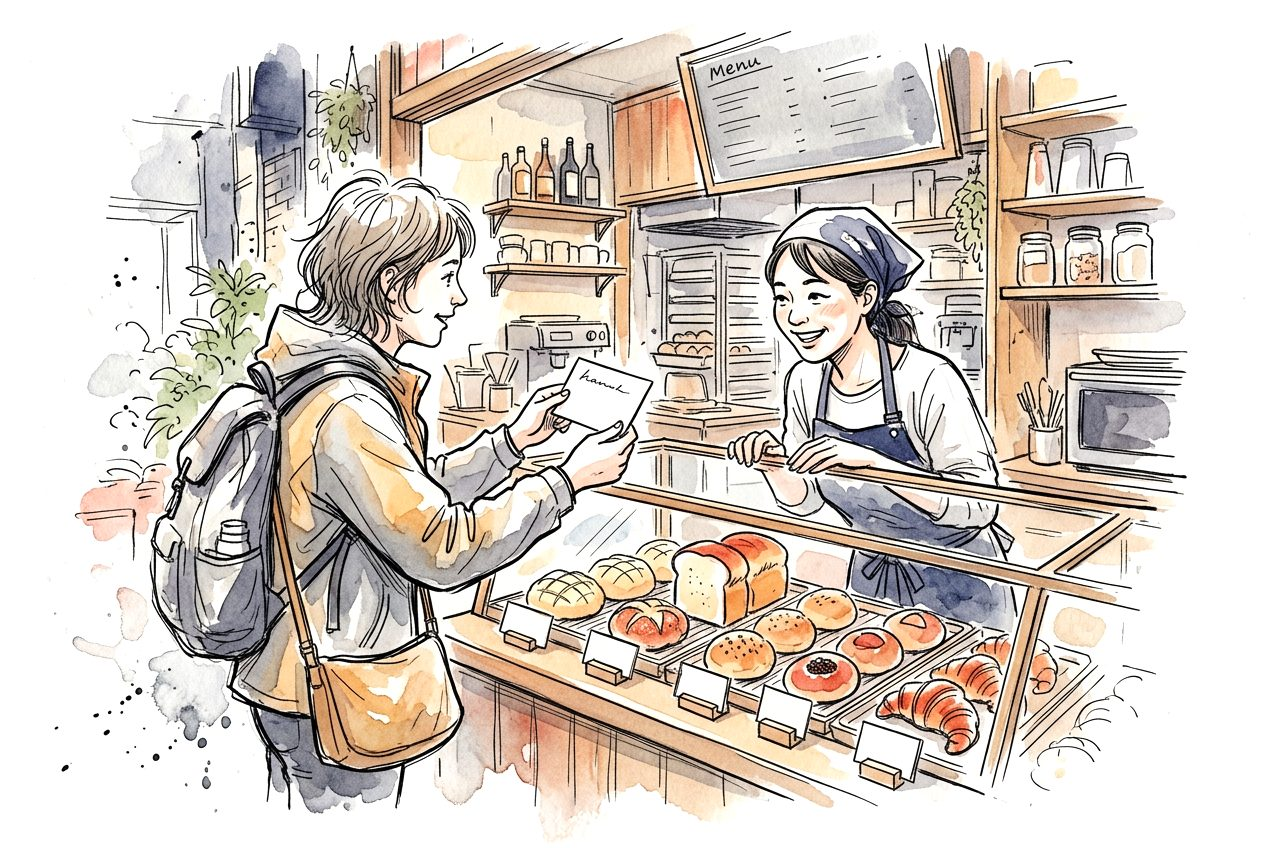
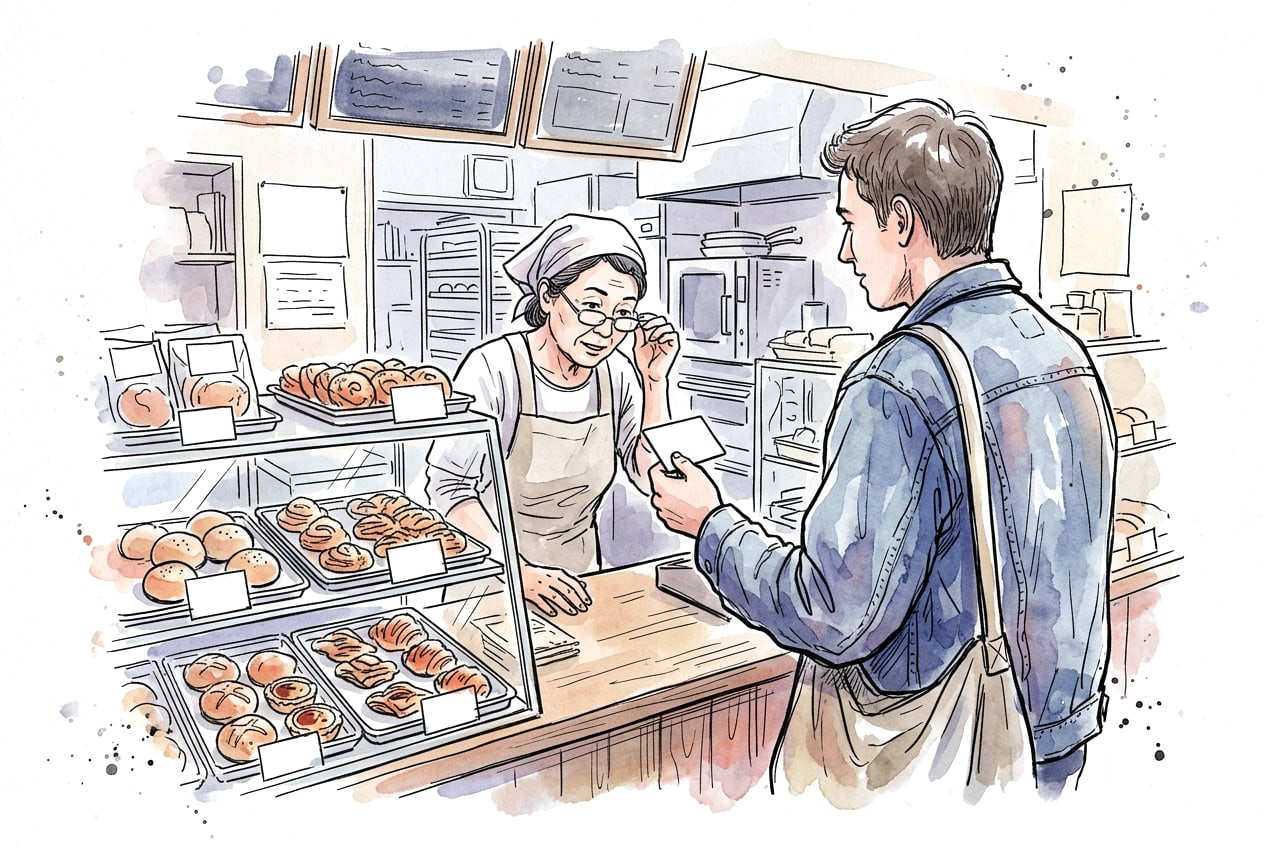
fix(illustrations): bakery and home table redrawn without lettering
bakery: the card had a Latin scribble and faced the traveller, and a board said
'Menu'. table: 'PASSPORT' lettering and a spoon in the miso soup. Alt updated.

Claude-Session: https://claude.ai/code/session_01UpttBQPap9JzyZfAZEcyqK

diff --git a/src/assets/illustrations/table.md b/src/assets/illustrations/table.md
@@ -1,2 +1,2 @@
-Generated with Figma AI (gemini-3.1-flash-image), 2026-10-11, then levelled to pure-white paper.
-Prompt: Loose hand-drawn black ink line illustration with soft watercolour washes, in the style of an urban sketchbook. Palette: muted indigo, soft vermilion red, warm ochre, grey, lots of white paper. Scene: a Japanese set meal (miso soup, grilled fish, rice, pickles, soy sauce, green tea) on a wooden table with an open travel notebook and a passport. The illustration fades out into white paper at the edges with a few ink and watercolour splatters. No text anywhere.
+Generated with Figma AI (gemini-3.1-flash-image), 2026-10-12, then levelled to pure-white paper. Regenerated after review: the first version had "PASSPORT" lettering and a spoon in the miso soup (miso soup is sipped from the bowl).
+Prompt: Loose hand-drawn black ink line illustration with soft watercolour washes, in the style of an urban sketchbook. Palette: muted indigo, soft vermilion red, warm ochre, grey, lots of white paper. Scene: a Japanese set meal on a wooden table, seen from slightly above: a lacquered bowl of miso soup with no spoon in it (miso soup is sipped straight from the bowl), a piece of glazed grilled fish on a rectangular plate, a bowl of white rice, a small dish of pickles, a small soy sauce dispenser, a cup of green tea, and chopsticks resting on a chopstick rest. Beside the tray, an open travel notebook with blank pages and a pen. Absolutely no text, letters, numbers, labels or logos anywhere, including on the notebook and the soy sauce bottle. No spoons. The illustration fades out into white paper at the edges with a few ink and watercolour splatters.

diff --git a/src/assets/illustrations/bakery.md b/src/assets/illustrations/bakery.md
@@ -1,2 +1,3 @@
-Generated with Figma AI (gemini-3.1-flash-image), 2026-10-12, then levelled to pure-white paper.
-Prompt: Loose hand-drawn black ink line illustration with soft watercolour washes, in the style of an urban sketchbook. Palette: muted indigo, soft vermilion red, warm ochre, grey, lots of white paper. Scene: at a Japanese bakery counter, a traveller holds up a small card and the shop assistant leans in to read it. The illustration fades out into white paper at the edges with a few ink and watercolour splatters. No text anywhere.
+Generated with Figma AI (gemini-3.1-flash-image), 2026-10-12, then levelled to pure-white paper (per channel). Regenerated after review: the first version had a Latin scribble on the card, an English "Menu" board, and the card facing the traveller.
+Prompt: Loose hand-drawn black ink line illustration with soft watercolour washes, in the style of an urban sketchbook. Palette: muted indigo, soft vermilion red, warm ochre, grey, lots of white paper. Scene: at a small Japanese bakery counter with trays of bread rolls and pastries behind glass, a traveller holds out a small plain card towards the shop assistant, with the card's face turned towards the assistant so the traveller sees only its blank back; the shop assistant in an apron leans in to read it. The card, signs, price tags, boards and packaging are all completely blank: no letters, no numbers, no words, no scribbles, no symbols anywhere. The illustration fades out into white paper at the edges with a few ink and watercolour splatters.
+Note: the menu boards at the top carry abstract wavy lines, not letters.
